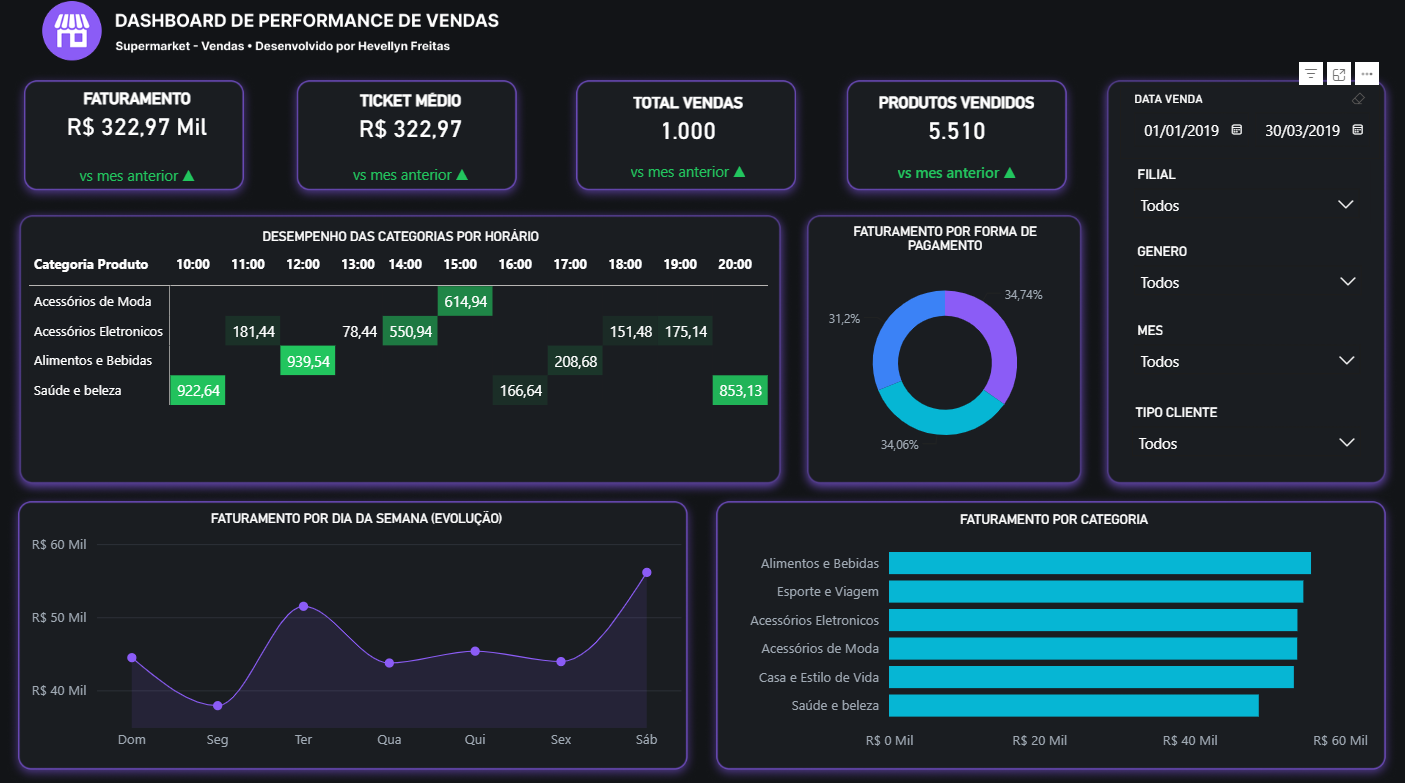
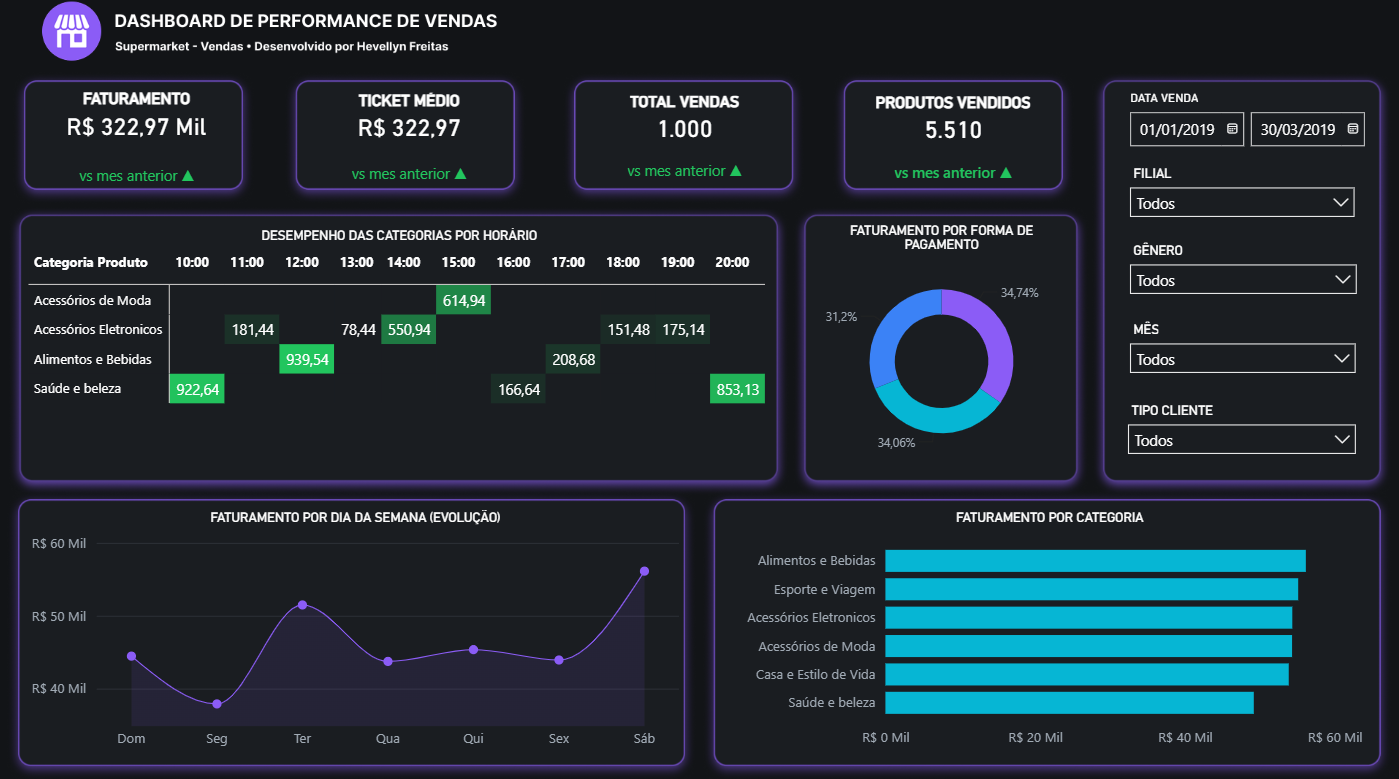
adicionando link do relatorio e atualizando imagem do relatorio

diff --git a/README.md b/README.md
@@ -2,19 +2,29 @@
 
 Este projeto implementa um pipeline de dados automatizado e robusto utilizando a *plataforma Databricks (Lakehouse)* para extrair, processar, limpar e modelar dados de vendas de supermercados provenientes da API do Kaggle, preparando-os para o consumo de Business Intelligence no *Power BI*.
 
+
 ---
 
-## Arquitetura do Projeto
+## Imagem do Relatório Power BI
+
+![Dashboard](imagens/relatorio.png)
+Relatório de análise de vendas.
+
+---
+
+## Link do Relatório
+
+https://app.powerbi.com/groups/me/reports/ce7ba65d-e352-48f8-a3e6-6877e6ed6b9f/2dafabae28b72e2ab404?experience=power-bi
+
+
+---
+
+## imagem da Arquitetura do Projeto
 
 ![Arquitetura do Projeto](imagens/arquitetura.png)
 Diagrama do fluxo de engenharia de dados do projeto.
 
 ---
-
-## Visualização relatório Power BI
-
-![Dashboard](imagens/relatorio.png)
-Relatório de análise de vendas.
 
 O projeto foi construído seguindo um fluxo modular dividido em quatro etapas principais:
 
